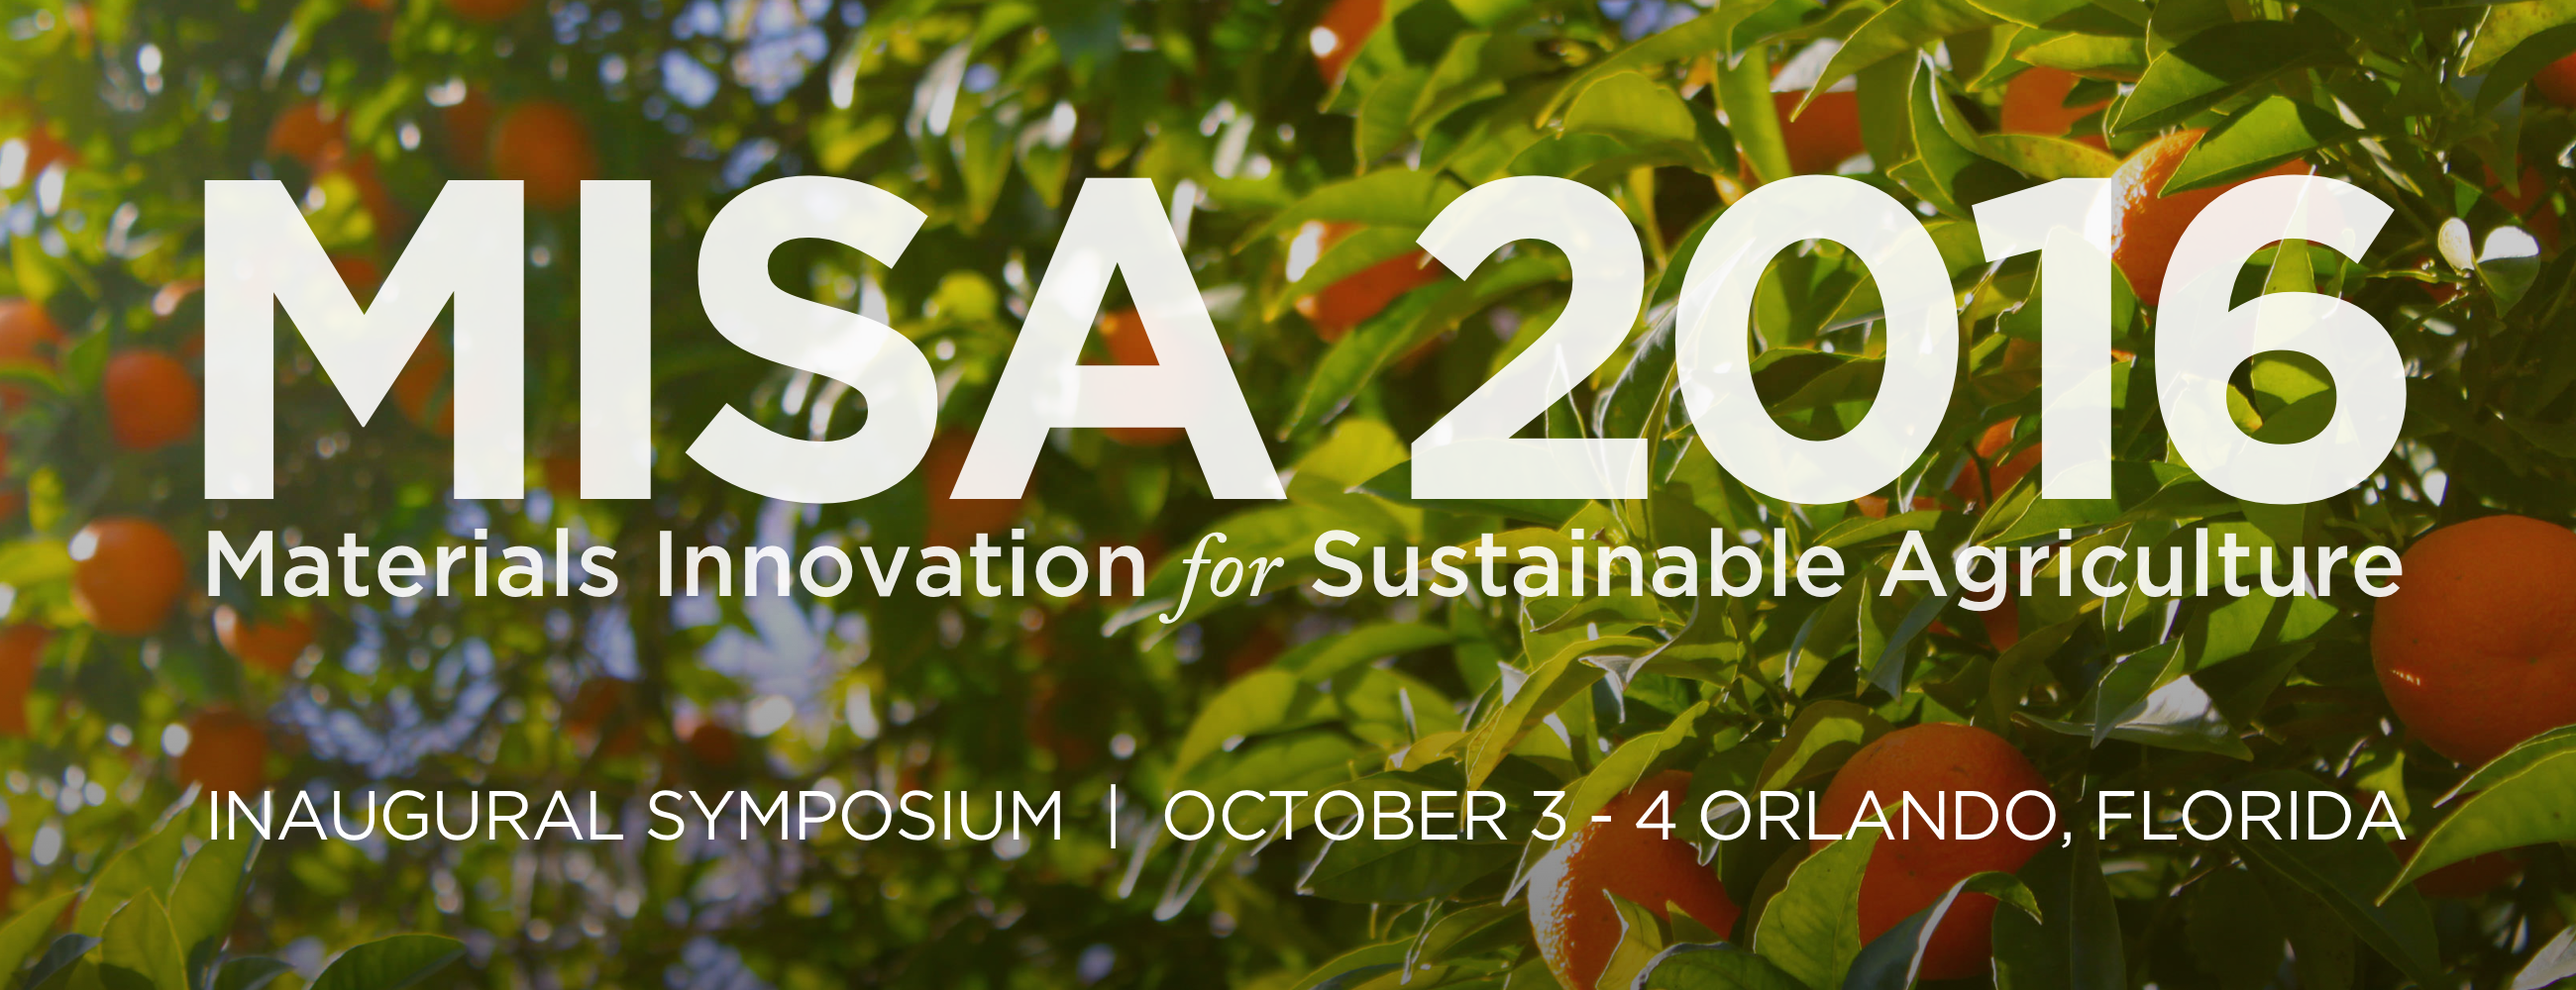
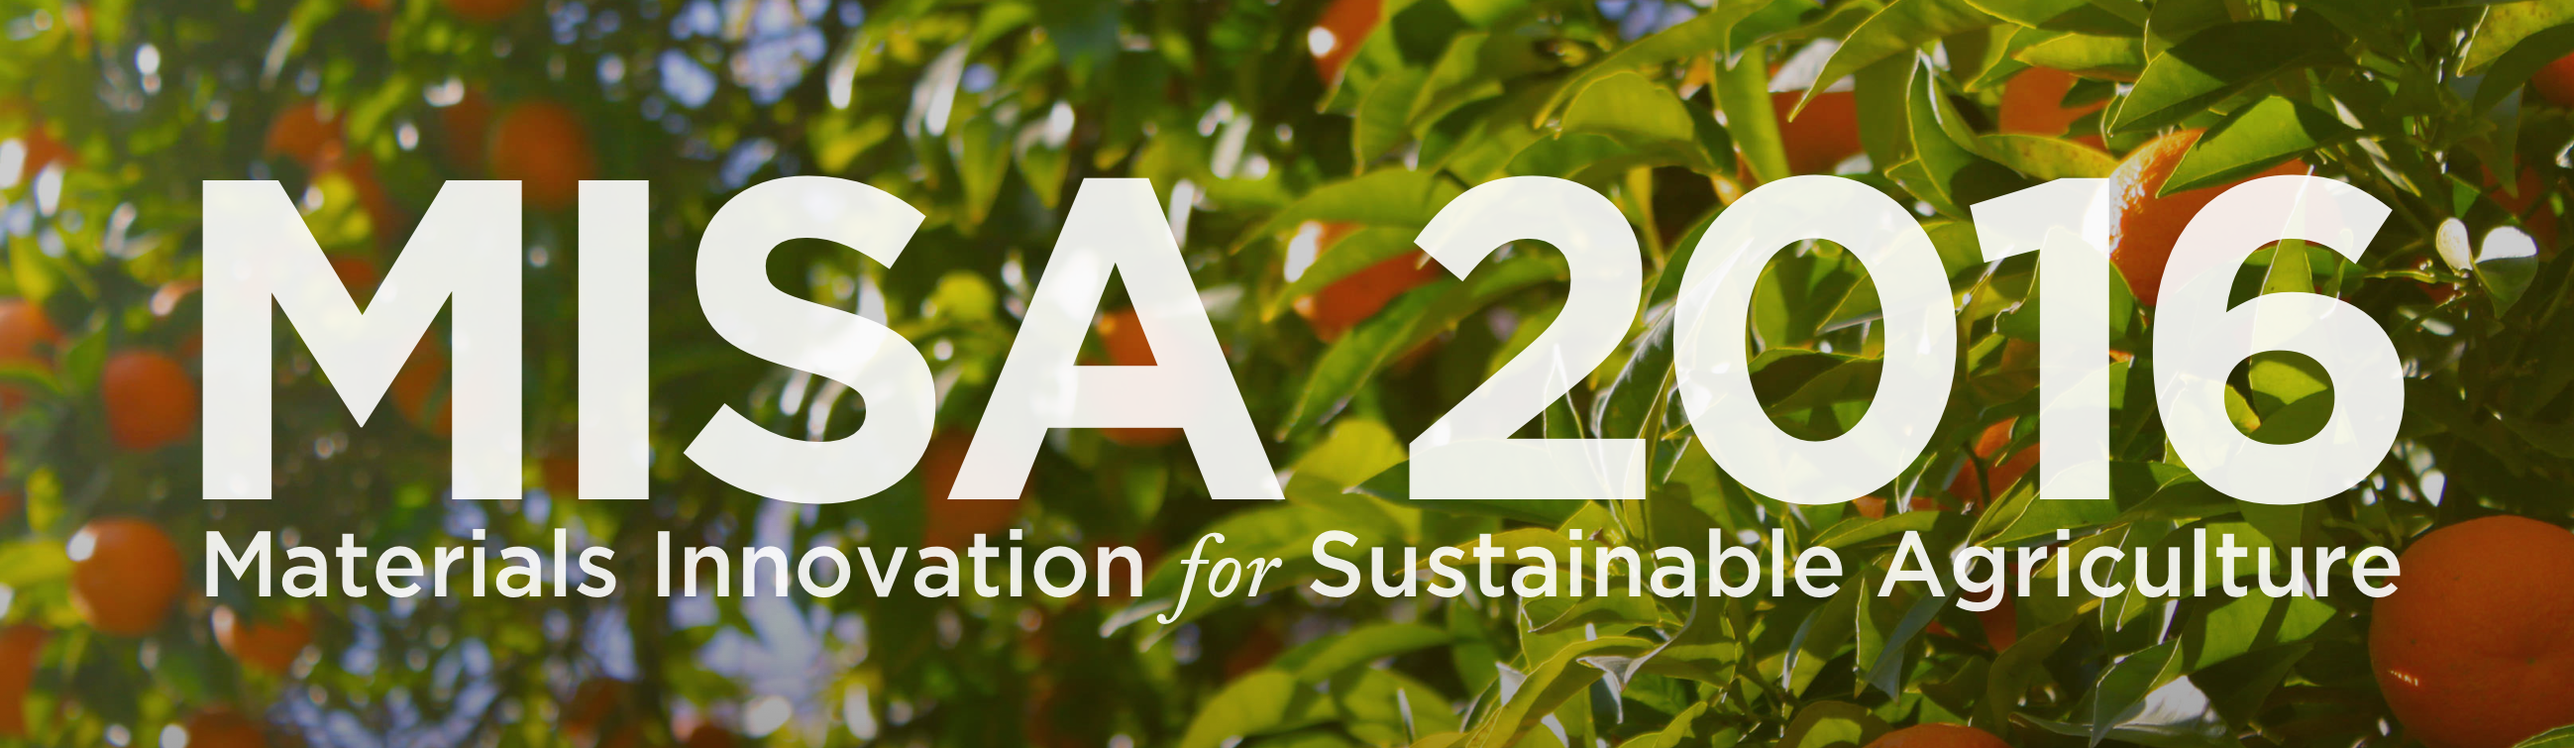
Changed hero image

diff --git a/index.php b/index.php
@@ -1,50 +1,5 @@
 <?php $pagetitle = "Home"; require_once('includes/header.php'); ?>
 
-<!-- Info Boxes -->
-<section class="container">
-	<div class="row">
-		<!-- Dates -->
-		<div class="col-sm-4">
-			<h2 class="">
-				<i class="fa fa-calendar-check-o" aria-hidden="true"></i>
-				&nbsp;Dates
-			</h2>
-			<div class="info-box">
-				<h3>Event Dates</h3>
-				<h4>October 3, 2016</h4>
-				<h4>October 4, 2016</h4>
-			</div>
-		</div>
-
-		<!-- Location -->
-		<div class="col-sm-4">
-			<h2 class="">
-				<i class="fa fa-map-marker" aria-hidden="true"></i>
-				&nbsp;Location
-			</h2>
-			<p class="info-box">
-				<img src="images/ucf.jpg"><br>
-				Live Oak Event Center,<br>
-				University of Central Florida,<br>
-				4115 Pyxis Ln, Orlando, FL 32816
-			</p>
-		</div>
-
-		<!-- Contact -->
-		<div class="col-sm-4">
-			<h2 class="">
-				<i class="fa fa-paper-plane" aria-hidden="true"></i>
-				&nbsp;Contact
-			</h2>
-			<p class="info-box">
-				Vilmania Ramos<br>
-				(MISA Program Assistant)<br>
-				<a href="mailto:vramos@ucf.edu">vramos@ucf.edu</a>
-			</p>
-		</div>
-	</div> 
-</section>
-
 <!-- Statement -->
 <section class="container">
 	<div class="statement row">
